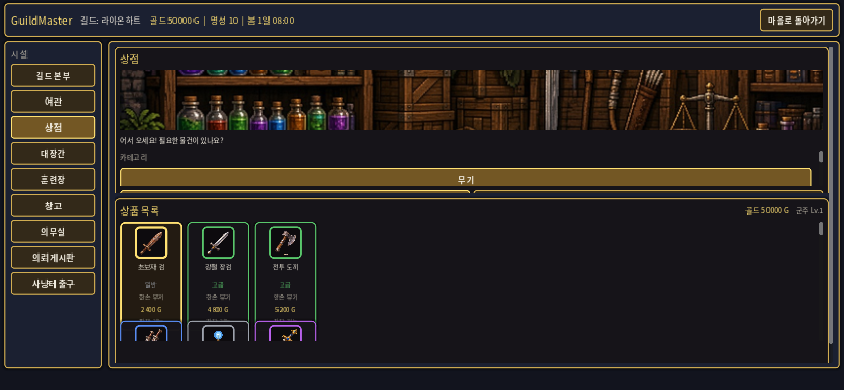
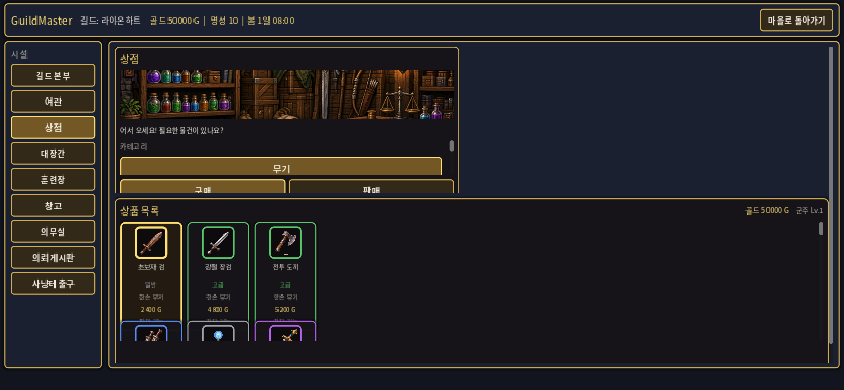
fix: keep shop Buy/Sell on-screen in short landscape
Compact left host no longer expands to card-driven ScrollContainer
body width; cap to facility main width so Sell stays in-window.

Changed region(s): [[0.1232, 0.1538, 0.9858, 0.4923], [0.5237, 0.3692, 0.5545, 0.4]]

diff --git a/docs/reviews/shop_blacksmith_visual_qa/evidence_manifest.md b/docs/reviews/shop_blacksmith_visual_qa/evidence_manifest.md
@@ -12,9 +12,10 @@
 | **Engine** | Godot 4.3.stable.official · `DISPLAY=:1` · x11 · opengl3 |
 | **Capture scripts** | `capture_shop_blacksmith_visual_qa.gd`, `capture_shop_category_scroll.gd` |
 | **Validate** | `validate_shop_blacksmith.gd` → **PASS (0 fails)** after category-scroll fix |
-| **Category-scroll ASSERTS** | `validate_shop_category_scroll.gd` → **FAIL (ok=15 fail=1)** — Buy/Sell not on-screen inside left clip host at **844×390**; all other asserts PASS at both sizes |
+| **Category-scroll ASSERTS** | `validate_shop_category_scroll.gd` → **PASS (ok=16 fail=0)** after compact left-host width cap fix |
+| **844 Sell off-screen fix** | Compact left host no longer `EXPAND_FILL` to card-driven body width; capped to facility main width (`win−200−8`) via `SHRINK_BEGIN`; compact portrait 110→90 so Buy/Sell fit host height. 1366 path unchanged. |
 | **Real-run flag** | **YES** |
-| **Visual PASS claim** | **No** — verification only; no visual PASS; no main merge |
+| **Visual PASS claim** | **No** — asserts/evidence only; no visual PASS; no main merge |
 | **Do not delete** | Keep evidence until ChatGPT confirms review complete |
 
 ## Fixes addressed (ChatGPT FAIL → this cycle)
